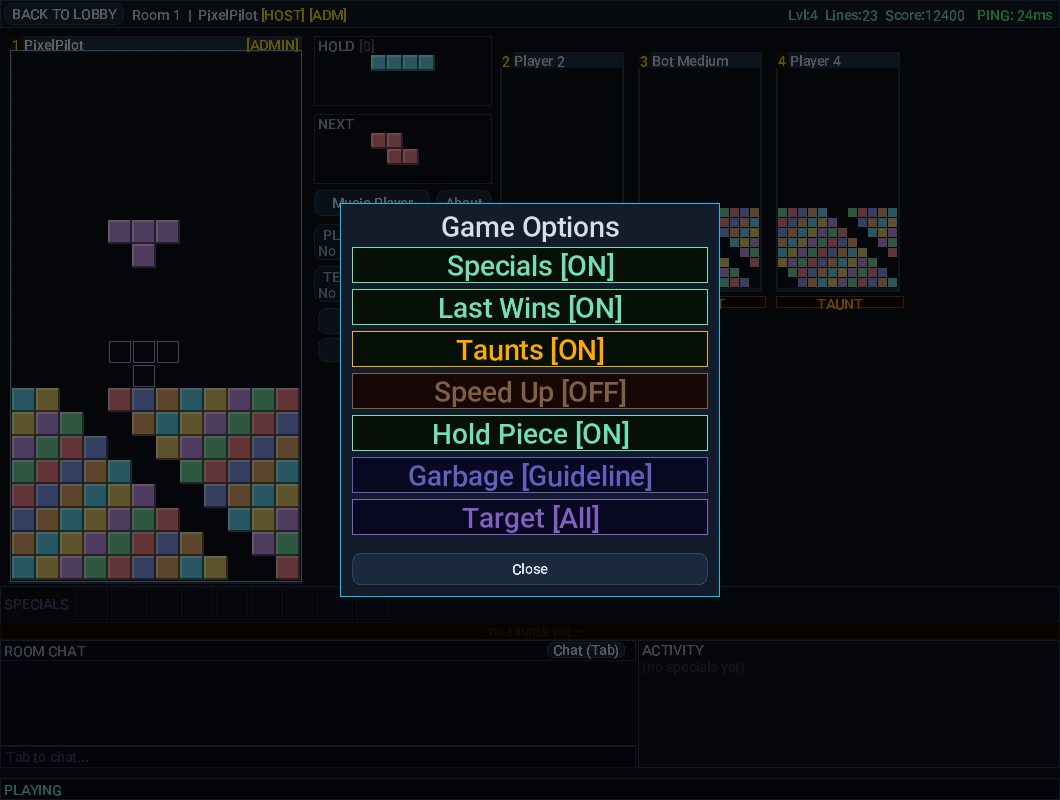
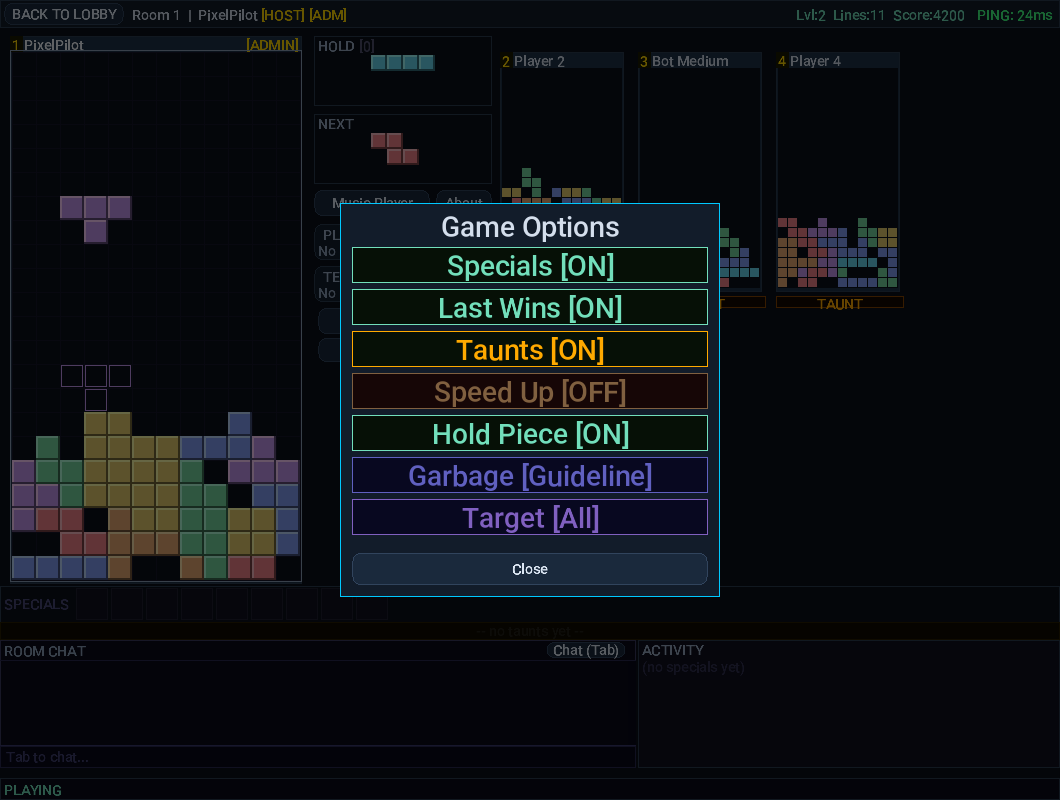
Refine Home layout and render distinct example player boards

diff --git a/public-web/assets/site.css b/public-web/assets/site.css
@@ -945,54 +945,74 @@ section[id],div[id=build] { scroll-margin-top:100px; }
 .guide-panel li + li,.guide-panel p { margin-top:14px; }
 @media(min-width:761px) { .nav-inner { max-width:1180px; } .nav-links { gap:22px; } }
 
-/* Home: open sections and typographic feature rows, with the shared palette. */
-.home-page .section { max-width:1180px; padding-top:76px; padding-bottom:76px; }
-.home-page .section-divider { max-width:1124px; opacity:.55; }
-.home-page .home-hero { max-width:1180px; margin:0 auto; padding:90px 28px 70px; min-height:540px; display:flex; justify-content:flex-start; overflow:visible; }
-.home-page .hero-content { text-align:left; padding:0; max-width:760px; margin:0; }
-.home-page .hero-title { font-size:clamp(48px,6.8vw,88px); letter-spacing:-4px; }
-.home-page .hero-sub { font-size:18px; max-width:650px; margin-left:0; }
+/* Home: clear text hierarchy, open rows, and compact contextual previews. */
+.home-page .section { max-width:1120px; padding:68px 28px; }
+.home-page .section-divider { max-width:1064px; opacity:.45; }
+.home-page .home-hero { max-width:1120px; margin:0 auto; padding:86px 28px 58px; min-height:0; display:block; overflow:visible; }
+.home-page .hero-content { text-align:left; padding:0; max-width:880px; margin:0; }
+.home-page .hero-title { font-size:clamp(68px,10vw,118px); line-height:1.1; letter-spacing:-6px; margin:22px 0; }
+.home-page .hero-sub { font-size:19px; max-width:670px; margin:0 0 20px; line-height:1.75; }
+.hero-kicker { color:var(--sky); font:13px var(--mono); margin-bottom:28px; }
 .home-page .hero-actions { justify-content:flex-start; }
-.home-page #about { display:grid; grid-template-columns:1fr 1fr; column-gap:70px; }
+.home-index { display:flex; flex-wrap:wrap; gap:20px 44px; max-width:1064px; margin:0 auto; padding:22px 0; border-top:1px solid var(--surface0); border-bottom:1px solid var(--surface0); }
+.home-index a { display:flex; gap:28px; align-items:center; font-size:13px; color:var(--text); }
+.home-index span { font:10px var(--mono); color:var(--overlay0); }
+.home-page #about { display:grid; grid-template-columns:1fr 1.15fr; column-gap:70px; }
 .home-page #about .eyebrow { grid-column:1/-1; }
-.home-page #about h2 { grid-row:2/4; max-width:420px; }
+.home-page #about h2 { grid-row:2/4; max-width:400px; }
 .home-page #about .section-sub { margin-bottom:18px; max-width:none; }
 .home-page #about > p:last-child { color:var(--overlay1); font-size:15px; }
-.home-page .features-grid { grid-template-columns:1fr 1fr; gap:0 64px; }
-.feature-item { position:relative; padding:25px 0 25px 44px; border-top:1px solid var(--surface0); }
-.feature-number { position:absolute; top:28px; left:0; font:12px var(--mono); color:var(--mauve); }
-.feature-item h3 { font-size:19px; font-weight:600; margin-bottom:8px; }
-.feature-item p { color:var(--overlay1); font-size:14px; line-height:1.75; max-width:430px; }
-.home-page .platform-row { margin-top:30px; gap:14px 25px; }
+.home-page #features { padding-bottom:44px; }
+.home-page #features > .section-sub { max-width:660px; margin-bottom:30px; }
+.home-page .features-grid { display:block; }
+.feature-item { position:relative; display:grid; grid-template-columns:36px minmax(0,1fr) 330px; column-gap:20px; padding:28px 0; border-top:1px solid var(--surface0); align-items:start; }
+.feature-number { grid-column:1; grid-row:1/3; font:12px var(--mono); color:var(--mauve); padding-top:5px; }
+.feature-item h3 { grid-column:2; font-size:21px; font-weight:600; margin:0 0 10px; }
+.feature-item p { grid-column:2; color:var(--overlay1); font-size:14px; line-height:1.8; max-width:490px; }
+.feature-previews { grid-column:3; grid-row:1/3; display:flex; gap:18px; margin:0; }
+.screenshot-thumb { display:block; width:156px; max-width:100%; color:var(--overlay1); font-size:11px; line-height:1.5; }
+.screenshot-thumb img { display:block; width:100%; height:auto; border-radius:4px; opacity:.9; transition:opacity .15s,transform .15s; }
+.screenshot-thumb:hover img { opacity:1; transform:translateY(-2px); }
+.screenshot-thumb span { display:block; margin-top:8px; }
+.preview-note { font-size:11px; color:var(--overlay0); margin:18px 0 22px; }
+.home-page .platform-row { margin-top:22px; gap:14px 25px; }
 .home-page .platform-chip { background:none; border:0; padding:0; border-radius:0; }
+.home-page #specials { padding-top:44px; padding-bottom:44px; }
+.home-page #specials .section-sub { margin-bottom:22px; }
 .home-page .specials-row { gap:0 28px; }
-.home-page .special-chip { background:none; border:0; border-radius:0; padding:12px 0; min-width:155px; }
+.home-page .special-chip { background:none; border:0; border-radius:0; padding:10px 0; min-width:155px; }
 .home-page .special-chip-key { background:none; padding:0; font-size:13px; min-width:14px; }
-.home-page .screenshot-grid { gap:32px; }
-.home-page .screenshot-grid img { border:0; border-radius:6px; box-shadow:0 16px 45px #0004; }
+.home-page #screenshots { display:grid; grid-template-columns:1fr 1fr; column-gap:54px; }
+.home-page #screenshots .eyebrow { grid-column:1/-1; }
+.home-page #screenshots h2,.home-page #screenshots .section-sub { grid-column:1; }
+.home-page #screenshots .section-sub { max-width:430px; margin-bottom:0; }
+.home-page .compact-gallery { grid-column:2; grid-row:2/4; display:flex; gap:22px; align-items:start; }
+.home-page .compact-gallery .screenshot-thumb { width:180px; }
+.home-page .compact-gallery img { border:0; border-radius:4px; box-shadow:0 12px 30px #0003; }
+.home-page #license .section-sub { max-width:710px; margin-bottom:26px; }
 .home-page #get { border-top:1px solid var(--surface0); background:linear-gradient(110deg,#ca9ee60a,transparent); }
+.home-page #get > .section-sub { max-width:660px; margin-bottom:30px; }
 .home-page .download-panel { background:none; border:0; border-radius:0; padding:0; }
 .home-page #release-status { font-size:20px; font-weight:500; max-width:760px; }
-@media(max-width:900px) { .home-page .home-hero { gap:28px; } .home-page .hero-title { font-size:64px; } }
+@media(max-width:1120px) { .home-index { margin-left:28px; margin-right:28px; } }
 @media(max-width:760px) {
- .home-page .home-hero { grid-template-columns:1fr; min-height:0; padding:65px 24px 50px; gap:45px; }
- .home-page .hero-title { font-size:clamp(48px,12vw,76px); letter-spacing:-3px; }
-  .home-page .section { padding:50px 24px; }
- .home-page #about { grid-template-columns:1fr; gap:0; }
- .home-page #about h2 { grid-row:auto; }
- .home-page .features-grid { grid-template-columns:1fr; }
- .home-page .section-sub { margin-bottom:30px; }
- .feature-item { padding-top:22px; padding-bottom:22px; }
- .feature-number { top:26px; }
+ .home-page .home-hero { padding:54px 24px 36px; }
+ .home-page .hero-title { font-size:clamp(54px,13vw,88px); letter-spacing:-3px; }
+ .home-page .hero-sub { font-size:17px; }
+ .hero-kicker { font-size:11px; }
+ .home-index { margin:0 24px; gap:16px 24px; padding:20px 0; }
+ .home-index a { gap:12px; }
+ .home-page .section { padding:46px 24px; }
+ .home-page #about,.home-page #screenshots { display:block; }
+ .home-page .section-sub { margin-bottom:26px; }
+ .feature-item { grid-template-columns:25px minmax(0,1fr); column-gap:12px; padding:24px 0; }
+ .feature-item h3 { font-size:19px; }
+ .feature-previews { grid-column:2; grid-row:auto; margin-top:18px; gap:14px; }
+ .feature-previews .screenshot-thumb { width:calc(50% - 7px); max-width:170px; }
+ .home-page .compact-gallery { margin-top:24px; gap:20px; }
+ .home-page .compact-gallery .screenshot-thumb { width:calc(50% - 10px); max-width:180px; }
 }
-
-.feature-previews { display:flex; gap:14px; margin-top:20px; flex-wrap:wrap; }
-.screenshot-thumb { display:block; width:150px; max-width:100%; color:var(--overlay1); font-size:11px; line-height:1.4; }
-.screenshot-thumb img { display:block; width:100%; height:auto; border-radius:4px; opacity:.9; transition:opacity .15s; }
-.screenshot-thumb:hover img { opacity:1; }
-.screenshot-thumb span { display:block; margin-top:8px; }
-.home-page .compact-gallery { display:flex; flex-wrap:wrap; gap:24px; }
-.home-page .compact-gallery .screenshot-thumb { width:180px; }
+@media(prefers-reduced-motion:reduce) { .screenshot-thumb img { transition:none; } .screenshot-thumb:hover img { transform:none; } }
 .screenshot-open { overflow:hidden; }
 .screenshot-viewer { width:min(1200px,96vw); max-width:96vw; max-height:94dvh; padding:0; border:1px solid var(--surface1); border-radius:10px; margin:auto; color:var(--text); background:var(--crust); box-shadow:0 25px 90px #0008; }
 .screenshot-viewer::backdrop { background:#11131de8; backdrop-filter:blur(5px); }
@@ -1003,4 +1023,4 @@ section[id],div[id=build] { scroll-margin-top:100px; }
 .viewer-stage img { display:block; width:auto; height:auto; max-width:100%; max-height:72dvh; margin:auto; }
 .viewer-stage.actual-size { text-align:left; }
 .viewer-stage.actual-size img { max-width:none; max-height:none; margin:0; }
-@media(max-width:480px) { .feature-previews { gap:10px; flex-wrap:nowrap; } .feature-previews .screenshot-thumb { width:calc(50% - 5px); } .viewer-toolbar { gap:10px; padding:12px; } .home-page .compact-gallery .screenshot-thumb { width:calc(50% - 12px); } }
+@media(max-width:480px) { .viewer-toolbar { gap:10px; padding:12px; } .home-page .compact-gallery .screenshot-thumb { width:calc(50% - 12px); } }

diff --git a/public-web/index.php b/public-web/index.php
@@ -17,15 +17,17 @@ site_header('Multiplayer falling blocks','home','./');
       <span class="line">Line</span><span class="clash">Clash</span>
     </h1>
     <p class="hero-sub">Fast, brutal multiplayer falling blocks. Up to 8 players, AI bots, 14 specials, full guideline gameplay. Self-hosted.</p>
+    <p class="hero-kicker">Your board. Your rivals. Your rules.</p>
     <div class="hero-actions">
       <a class="btn btn-primary" href="#get">Get the game</a>
-      <a class="btn btn-outline" href="#screenshots">See the game</a>
+      <a class="btn btn-outline" href="#features">See the game</a>
     </div>
   </div>
 </section>
+<nav class="home-index" aria-label="On this page"><a href="#about">The game <span>01</span></a><a href="#features">Features <span>02</span></a><a href="#screenshots">Soundtrack <span>03</span></a><a href="#get">Downloads <span>04</span></a></nav>
 
 <section class="section" id="about" aria-labelledby="about-heading">
-  <p class="eyebrow">01 / About the game</p>
+  <p class="eyebrow">The game</p>
   <h2 class="section-title" id="about-heading">Stack together. Clash with friends.</h2>
   <p class="section-sub">LineClash is a native multiplayer falling-block game. Build clean stacks, clear lines, and send specials to shake up your rivals’ boards. Play in rooms with up to eight players, team up with friends, or practice against AI bots.</p>
   <p>Choose a community server or host your own. Room rules let you shape each session, while spectators, chat and an in-game music library keep the arena lively between rounds.</p>
@@ -35,9 +37,9 @@ site_header('Multiplayer falling blocks','home','./');
 
 <!-- Features -->
 <div class="section" id="features">
-  <p class="eyebrow">02 / Made for play</p>
+  <p class="eyebrow">Made for play</p>
   <h2 class="section-title">Built for your next rivalry.</h2>
-  <p class="section-sub">Real-time multiplayer with the depth of guideline play and the chaos of specials.</p>
+  <p class="section-sub">From a quick practice session to a room full of rivals. Click a preview to take a closer look.</p>
   <div class="features-grid">
     <article class="feature-item">
       <span class="feature-number" aria-hidden="true">01</span>
@@ -76,6 +78,7 @@ site_header('Multiplayer falling blocks','home','./');
       <div class="feature-previews"><?php home_preview('servers','Community servers'); ?><?php home_preview('rooms','Hosted rooms'); ?></div>
     </article>
   </div>
+  <p class="preview-note">Native client previews with example players and rooms. Each board uses its own piece sequence.</p>
   <div class="platform-row">
     <div class="platform-chip"><span class="dot"></span>macOS arm64</div>
     <div class="platform-chip"><span class="dot"></span>openSUSE Leap</div>
@@ -88,7 +91,7 @@ site_header('Multiplayer falling blocks','home','./');
 
 <!-- Specials -->
 <div class="section" id="specials">
-  <p class="eyebrow">03 / Change the round</p>
+  <p class="eyebrow">Change the round</p>
   <h2 class="section-title">14 specials. Pick your chaos.</h2>
   <p class="section-sub">Clear lines to earn specials. Fire them at opponents — or yourself when it helps.</p>
   <div class="specials-row">
@@ -107,19 +110,19 @@ site_header('Multiplayer falling blocks','home','./');
 <div class="section-divider"></div>
 
 <section class="section" id="screenshots" aria-labelledby="screenshots-heading">
-<p class="eyebrow">04 / Inside LineClash</p><h2 class="section-title" id="screenshots-heading">Your board. Your rivals. One more round.</h2>
-<p class="section-sub">A native desktop game with competitive rooms, a server browser, and a soundtrack for the next session. Previews rendered by the current development client with example room and player data. Click a thumbnail to enlarge it.</p>
+<p class="eyebrow">Between rounds</p><h2 class="section-title" id="screenshots-heading">Find your rhythm.</h2>
+<p class="section-sub">An in-game music library for long sessions, with track controls and credits close at hand. Explore the player and the people behind the soundtrack.</p>
 <div class="screenshot-grid compact-gallery">
-<?php home_preview('arena','The multiplayer arena'); home_preview('rooms','Rooms & rules'); home_preview('bots','AI players'); home_preview('servers','Discover servers'); ?>
+<?php home_preview('music','In-game music player'); home_preview('credits','Soundtrack credits'); ?>
 </div></section>
 
 <div class="section-divider"></div>
 
-<section class="section" id="license"><p class="eyebrow">05 / Open source</p><h2 class="section-title">Free software. Make it yours.</h2><p class="section-sub">GPL version 3 or later — free to use, modify, and redistribute under its terms. Music and fonts carry their own licenses.</p><div class="hero-actions"><a class="btn btn-outline" href="source/">Source, license &amp; credits →</a><a class="btn btn-outline" href="documentation/">Read the documentation →</a></div></section>
+<section class="section" id="license"><p class="eyebrow">Yours to explore</p><h2 class="section-title">Free software. Make it yours.</h2><p class="section-sub">GPL version 3 or later — free to use, modify, and redistribute under its terms. Music and fonts carry their own licenses.</p><div class="hero-actions"><a class="btn btn-outline" href="source/">Source, license &amp; credits →</a><a class="btn btn-outline" href="documentation/">Read the documentation →</a></div></section>
 
 <div class="section-divider"></div>
 
-<section class="section" id="get" aria-labelledby="get-heading"><p class="eyebrow">06 / Ready when you are</p><h2 class="section-title" id="get-heading">Get the game.</h2>
+<section class="section" id="get" aria-labelledby="get-heading"><p class="eyebrow">Join the next round</p><h2 class="section-title" id="get-heading">Get the game.</h2>
 <p class="section-sub">The latest published GitHub release, with downloads for the platforms available in that release. Drafts and prereleases are excluded.</p>
 <div class="download-panel"><p id="release-status" role="status">Checking the latest release…</p><div id="release-assets" class="release-assets"></div><div class="download-actions"><a class="btn btn-outline" href="https://github.com/kladhest-se/lineclash/releases">All GitHub releases ↗</a><a class="btn btn-outline" href="source/#build">Build from source</a><button type="button" class="copy-button" id="release-retry" hidden>Try again</button></div><noscript><p>Enable JavaScript to check downloads automatically, or visit GitHub releases. Build instructions are available on the Source page.</p></noscript></div>
 <p class="small muted">Native packages may require SDL2 and other runtime libraries. Check the release notes for platform and installation requirements.</p></section>

diff --git a/scripts/render_web_previews.c b/scripts/render_web_previews.c
@@ -1,0 +1,25 @@
+/* SPDX-License-Identifier: GPL-3.0-or-later
+ * Render illustrative website screenshots using the native client. No network.
+ * Writes /tmp/lineclash-web-{arena,bots,rules,rooms}.bmp.
+ */
+#include "../clients/gui/src/render_sdl.c"
+#include <assert.h>
+static void shot(const char *name){int w,h;SDL_GetRendererOutputSize(g_rend,&w,&h);SDL_Surface *s=SDL_CreateRGBSurfaceWithFormat(0,w,h,32,SDL_PIXELFORMAT_ARGB8888);assert(s);assert(!SDL_RenderReadPixels(g_rend,NULL,s->format->format,s->pixels,s->pitch));char p[256];snprintf(p,sizeof(p),"/tmp/lineclash-web-%s.bmp",name);assert(!SDL_SaveBMP(s,p));SDL_FreeSurface(s);}
+static unsigned preview_random(unsigned *seed){*seed=*seed*1664525u+1013904223u;return *seed;}
+/* Drop real tetrominoes with independent, repeatable sequences per board. */
+static void stack(Field *f,int player){
+ field_init(f); unsigned seed=719u+player*1031u;
+ const int counts[]={19,31,13,25};
+ for(int n=0;n<counts[player%4];n++){
+  Piece best; int best_y=-100; unsigned tie=0; int type=(int)(preview_random(&seed)%7);
+  for(int rotation=0;rotation<4;rotation++)for(int x=-1;x<FIELD_WIDTH;x++){
+   Piece p;piece_init(&p,type);p.rotation=rotation;p.x=x;if(!field_valid(f,&p))continue;
+   piece_drop(f,&p);unsigned choice=preview_random(&seed);
+   if(p.y>best_y || (p.y==best_y && choice>tie)){best=p;best_y=p.y;tie=choice;}
+  }
+  if(best_y<0)break;field_lock(f,&best);field_clear_lines(f);
+ }
+ f->level=2+player;f->lines=11+player*9;f->score=4200+player*3600;
+}
+int main(void){SDL_setenv("SDL_VIDEODRIVER","dummy",1);SDL_setenv("SDL_AUDIODRIVER","dummy",1);assert(sdl_init());ClientCtx c;memset(&c,0,sizeof(c));c.running=1;c.state=CS_PLAYING;c.slot=1;c.room_id=1;c.is_host=1;c.priv_level=1;c.hold_enabled=1;c.bots_allowed=1;c.garbage_system=1;c.last_player_wins=1;c.ping_ms=24;strcpy(c.nick,"PixelPilot");stack(&c.my_field,0);piece_init(&c.cur,2);c.cur.y=6;c.cur.x=3;piece_init(&c.next,4);piece_init(&c.hold,0);for(int i=1;i<4;i++){snprintf(c.opp_nicks[i],sizeof(c.opp_nicks[i]),"Player %d",i+1);c.opp_alive[i]=1;stack(&c.opp_fields[i],i);}for(int a=0;a<4;a++)for(int b=a+1;b<4;b++){Field *fa=a?&c.opp_fields[a]:&c.my_field;Field *fb=b?&c.opp_fields[b]:&c.my_field;assert(memcmp(fa->cells,fb->cells,sizeof(fa->cells))!=0);}
+ sdl_render_game(&c);shot("arena");c.ai_players_popup_open=1;c.opp_is_bot[2]=1;c.opp_bot_diff[2]=1;strcpy(c.opp_nicks[2],"Bot Medium");sdl_render_game(&c);shot("bots");c.ai_players_popup_open=0;c.game_options_popup_open=1;sdl_render_game(&c);shot("rules");c.game_options_popup_open=0;c.state=CS_LOBBY_SELECT;c.lobby_list_count=3;const char *names[]={"Evening Arena","Practice with Bots","Team Challenge"};for(int i=0;i<3;i++){LobbyInfo *l=&c.lobby_list[i];l->id=i+1;strcpy(l->name,names[i]);l->max_players=8;l->player_count=3+i;l->hold_enabled=1;l->garbage_system=1;l->last_player_wins=1;}sdl_render_lobby_select(&c);shot("rooms");sdl_shutdown();return 0;}

diff --git a/docs/WEB-SERVICES.md b/docs/WEB-SERVICES.md
@@ -93,3 +93,7 @@ The main navigation is **Home, Servers, Statistics, Documentation, Source**. Scr
 Home introduces the game in this order: hero, about, features, specials, screenshots, licensing, then Get the game. Server browsing and statistics remain on their dedicated pages; build instructions live on Source. Download buttons in the header and hero jump directly to the lower download section.
 
 The Home design uses a text introduction, numbered sections, and unboxed feature rows with subtle separators. Feature rows include compact native-renderer screenshot thumbnails, which open a keyboard-accessible dialog with fit-to-screen, actual-size and original-image options. The hero contains no screenshot. Screenshots and release links retain the shared colors and animated block background; mobile layouts stack into one column.
+
+Home uses aligned feature rows with small contextual previews, a compact section index, and a separate music/credits gallery. Screenshot boards use independent deterministic sequences of real dropped pieces and different piece counts; the renderer verifies that no two sample boards match. These are illustrative native UI previews, not recorded match results.
+
+To regenerate arena, AI, rules and room screenshots after building the GUI, compile `scripts/render_web_previews.c` with the same objects/libraries as the music UI test (excluding `render_sdl.o`), then run it. It writes `/tmp/lineclash-web-*.bmp`; convert these to PNG in `public-web/assets/screenshots/` and regenerate their 360px thumbnail variants.
